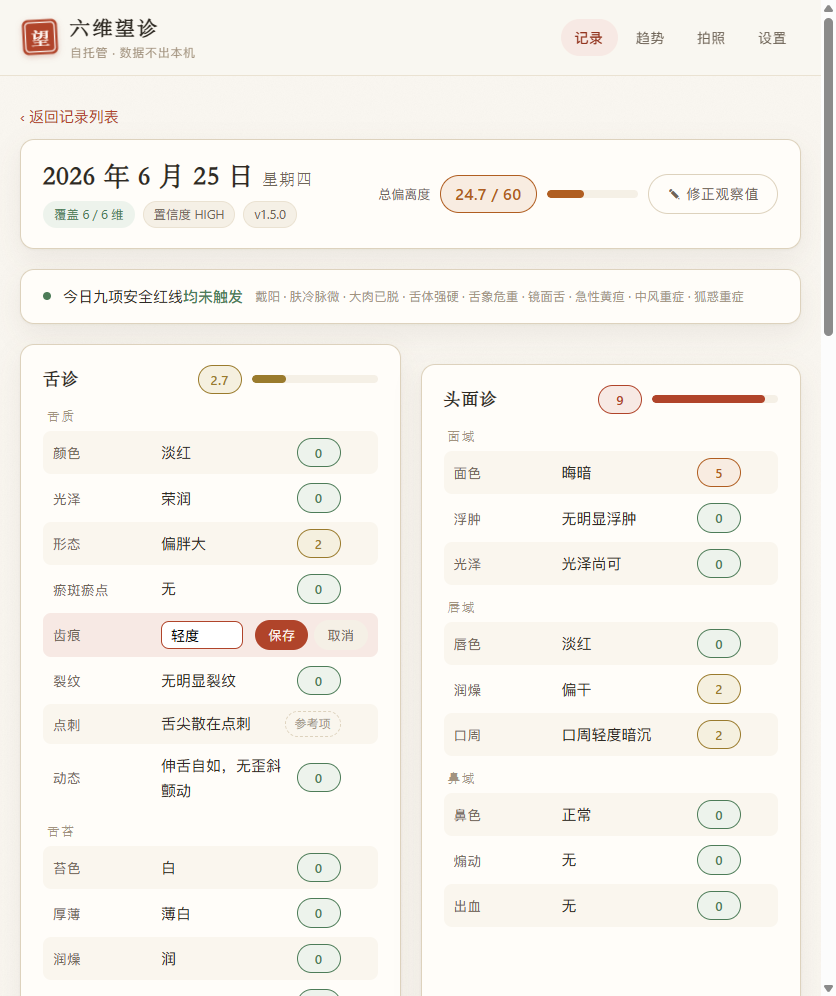
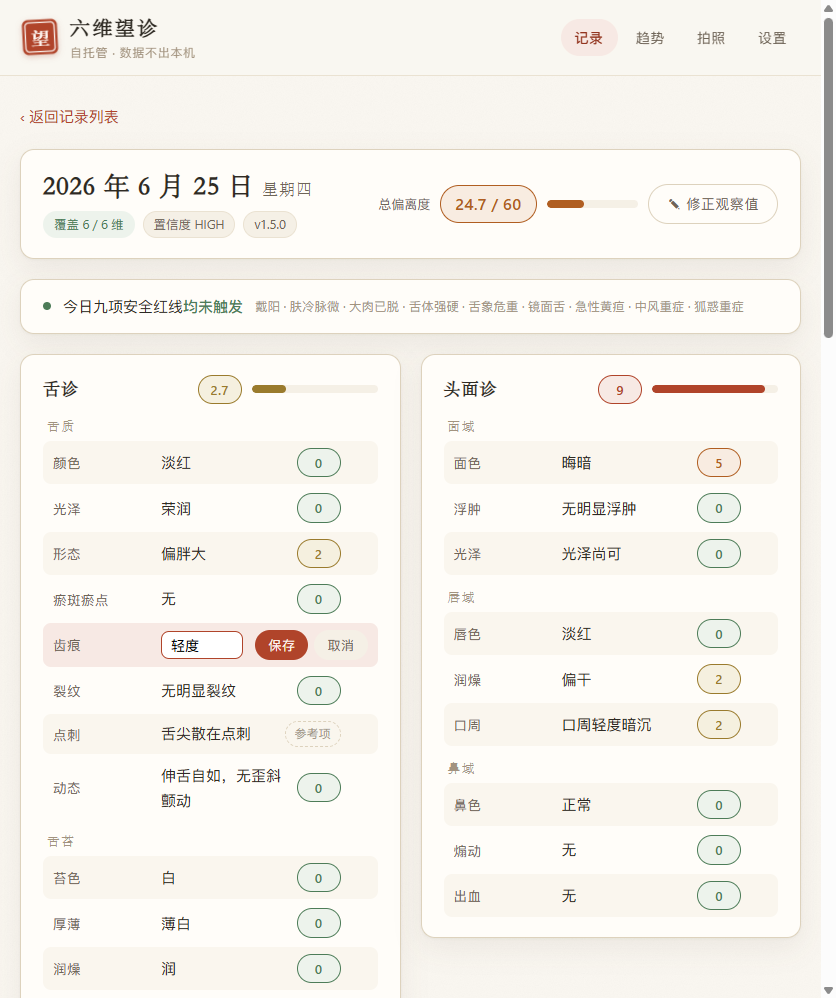
fix(web): 五页版式统一——stack 节奏容器替代裸 spacer，六维卡按内容自然高度

diff --git a/web/design/pages/index.html b/web/design/pages/index.html
@@ -62,7 +62,7 @@
   .rec-row .date small { font-family: var(--font-sans); font-weight: 400; color: var(--ink-3); margin-left: 6px; font-size: 12px; }
   .rec-row .dimmini { display: flex; gap: 8px; flex-wrap: wrap; }
   .rec-row .dimmini span { display: inline-flex; align-items: center; gap: 4px; font-size: 12.5px; color: var(--ink-2); }
-  .stat-strip { display: grid; grid-template-columns: repeat(3, 1fr); gap: var(--gap); margin-bottom: var(--gap); }
+  .stat-strip { display: grid; grid-template-columns: repeat(3, 1fr); gap: var(--gap); }
   .stat { text-align: center; padding: 16px 10px; }
   .stat .n { font-family: var(--font-serif); font-size: 28px; font-weight: 700; }
   .stat .l { font-size: 12.5px; color: var(--ink-2); letter-spacing: 0.08em; margin-top: 2px; }
@@ -92,19 +92,19 @@
   </div>
 </header>
 
-<main class="page">
+<main class="page stack">
 
   <!-- 空库首启演示：载入示例数据 -->
-  <div class="alert-note" style="margin-bottom: var(--gap); display:flex; align-items:center; gap:12px;">
+  <div class="alert-note" style="display:flex; align-items:center; gap:12px;">
     <span>首次使用？数据库为空时可载入一份合成示例数据体验完整流程。</span>
     <span class="spacer"></span>
     <button class="btn btn-subtle btn-sm">载入示例数据</button>
   </div>
 
-  <h1 class="page-title">记录</h1>
-  <p class="page-sub">2026 年 6 月 · 当日覆盖维度与总分一览</p>
-
-  <div style="height: 22px"></div>
+  <div>
+    <h1 class="page-title">记录</h1>
+    <p class="page-sub">2026 年 6 月 · 当日覆盖维度与总分一览</p>
+  </div>
 
   <div class="stat-strip">
     <div class="card stat"><div class="n num">7</div><div class="l">本周记录天数</div></div>

diff --git a/web/design/pages/record.html b/web/design/pages/record.html
@@ -7,6 +7,7 @@
 <link rel="stylesheet" href="../assets/tokens.css">
 <link rel="stylesheet" href="../assets/base.css">
 <style>
+  #dims { align-items: start; }  /* 卡片按内容自然高度，不强制同行等高 */
   .dim-card h3 { font-size: 17px; letter-spacing: 0.06em; }
   .group-name {
     font-size: 12.5px;
@@ -90,9 +91,9 @@
   </div>
 </header>
 
-<main class="page">
+<main class="page stack">
 
-  <p style="margin: 0 0 10px;"><a href="index.html">‹ 返回记录列表</a></p>
+  <p style="margin: 0;"><a href="index.html">‹ 返回记录列表</a></p>
 
   <div class="card">
     <div class="row wrap">
@@ -122,7 +123,7 @@
   </div>
 
   <!-- 六维卡片 -->
-  <div class="grid cols-2" id="dims" style="margin-top: var(--gap);"></div>
+  <div class="grid cols-2" id="dims"></div>
 
   <!-- 原图对照 -->
   <div class="card">

diff --git a/web/design/pages/settings.html b/web/design/pages/settings.html
@@ -46,15 +46,15 @@
   </div>
 </header>
 
-<main class="page">
+<main class="page stack">
 
-  <h1 class="page-title">设置</h1>
-  <p class="page-sub">所有配置写回项目根目录的 <span class="env-note">.env</span>（唯一存储），不入库、不上报</p>
-
-  <div style="height: 22px"></div>
+  <div>
+    <h1 class="page-title">设置</h1>
+    <p class="page-sub">所有配置写回项目根目录的 <span class="env-note">.env</span>（唯一存储），不入库、不上报</p>
+  </div>
 
   <!-- 首次启动引导演示 -->
-  <div class="alert-note" style="margin-bottom: var(--gap);">
+  <div class="alert-note">
     <strong>欢迎使用。</strong>检测到尚未配置视觉模型 —— 完成下方「视觉模型」设置后即可开始第一次拍照记录。
   </div>
 

diff --git a/web/design/pages/wizard.html b/web/design/pages/wizard.html
@@ -56,15 +56,15 @@
   </div>
 </header>
 
-<main class="page">
+<main class="page stack">
 
-  <h1 class="page-title">拍照向导</h1>
-  <p class="page-sub num">2026 年 9 月 30 日 · 一步一个部位，全部数据仅存本机</p>
-
-  <div style="height: 22px"></div>
+  <div>
+    <h1 class="page-title">拍照向导</h1>
+    <p class="page-sub num">2026 年 9 月 30 日 · 一步一个部位，全部数据仅存本机</p>
+  </div>
 
   <!-- 状态演示：当日已有记录时的三选入口 -->
-  <div class="alert-note" style="margin-bottom: var(--gap);">
+  <div class="alert-note">
     <strong>今日已有记录（覆盖 4 / 6 维）。</strong>
     <div class="row wrap" style="margin-top:10px; gap:8px;">
       <button class="btn btn-primary btn-sm">补充未覆盖维度</button>

diff --git a/web/design/assets/base.css b/web/design/assets/base.css
@@ -134,7 +134,8 @@ a:hover { color: var(--cinnabar-deep); }
   padding: 20px 22px;
 }
 
-.card + .card { margin-top: var(--gap); }
+/* 卡片间距一律由 .stack 节奏容器负责（见工具区），不写相邻卡 margin，
+   避免 stack gap 与 margin 叠加出双倍间距 */
 
 .card-head {
   display: flex;
@@ -469,6 +470,9 @@ a:hover { color: var(--cinnabar-deep); }
 .photo-frame svg { opacity: 0.5; }
 
 /* ---------------- 工具 ---------------- */
+
+/* 页面节奏容器：所有顶层区块统一 20px 间距，页面内不再用裸 spacer div */
+.stack { display: grid; gap: var(--gap); }
 
 .grid { display: grid; gap: var(--gap); }
 .grid.cols-2 { grid-template-columns: repeat(2, 1fr); }
